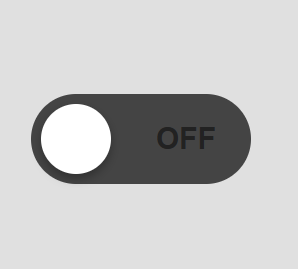
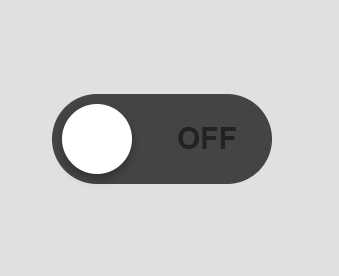
updated

Changed region(s): [[0.0906, 0.3271, 0.8456, 0.684], [0.5134, 0.4461, 0.7248, 0.5651]]

diff --git a/01-toggle-switch/README.md b/01-toggle-switch/README.md
@@ -4,11 +4,21 @@ A simple ON / OFF toggle switch built using HTML, CSS and JavaScript.
 
 ## Preview
 
-OFF
-![OFF](images/off.png)
+<table>
+<tr>
+<td align="center">
 
-ON
-![ON](images/on.png)
+OFF <img src="images/off.png" width="250">
+
+</td>
+
+<td align="center">
+
+ON <img src="images/on.png" width="250">
+
+</td>
+</tr>
+</table>
 
 ## How to Run
 
@@ -25,4 +35,5 @@ Open it in your browser.
 ---
 
 ⭐ If you like this project, please give this repository a **star**.
+
 
